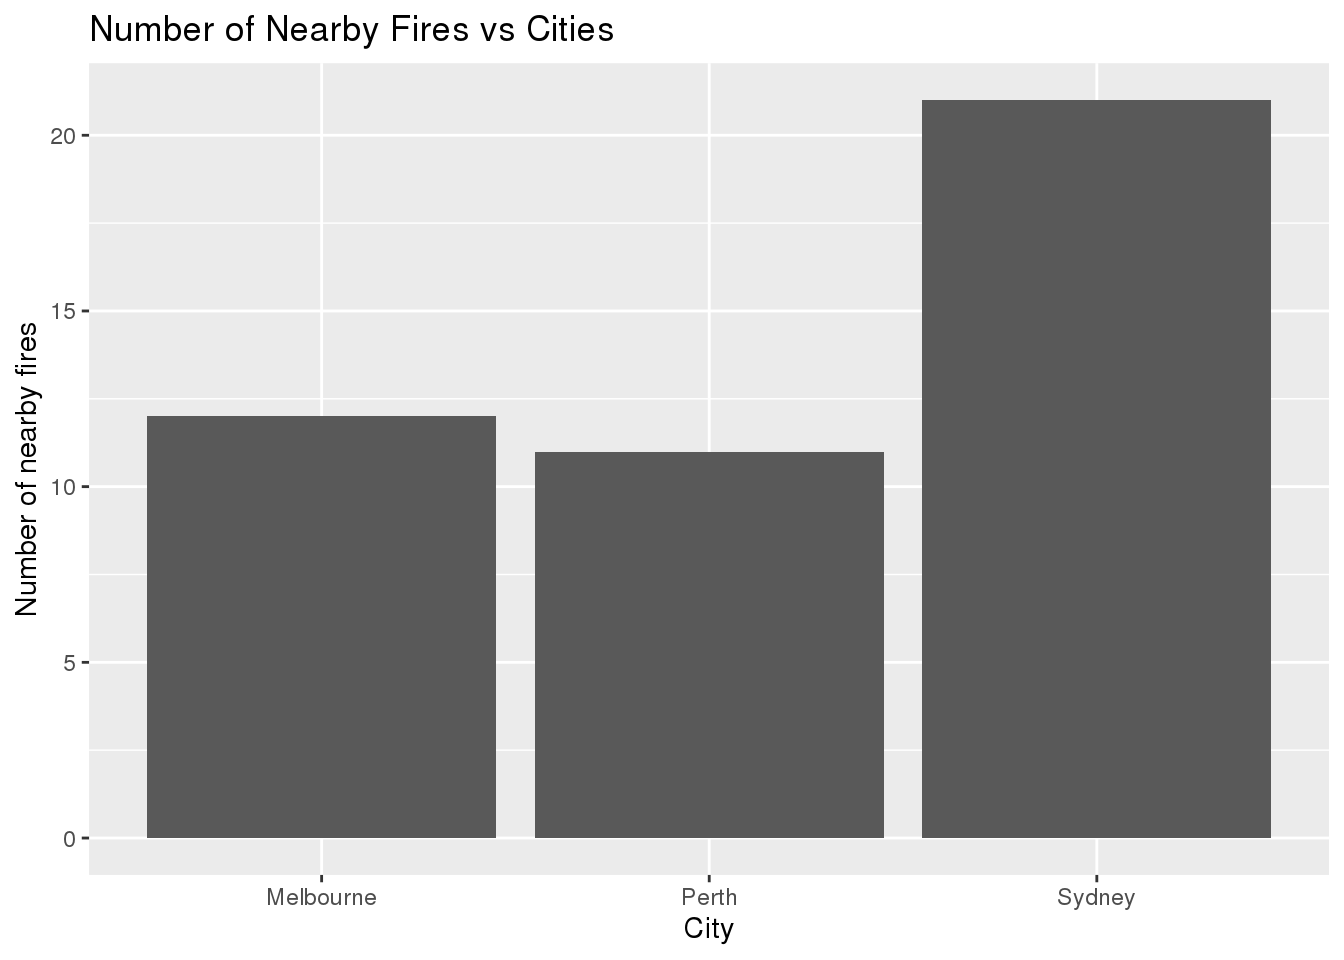
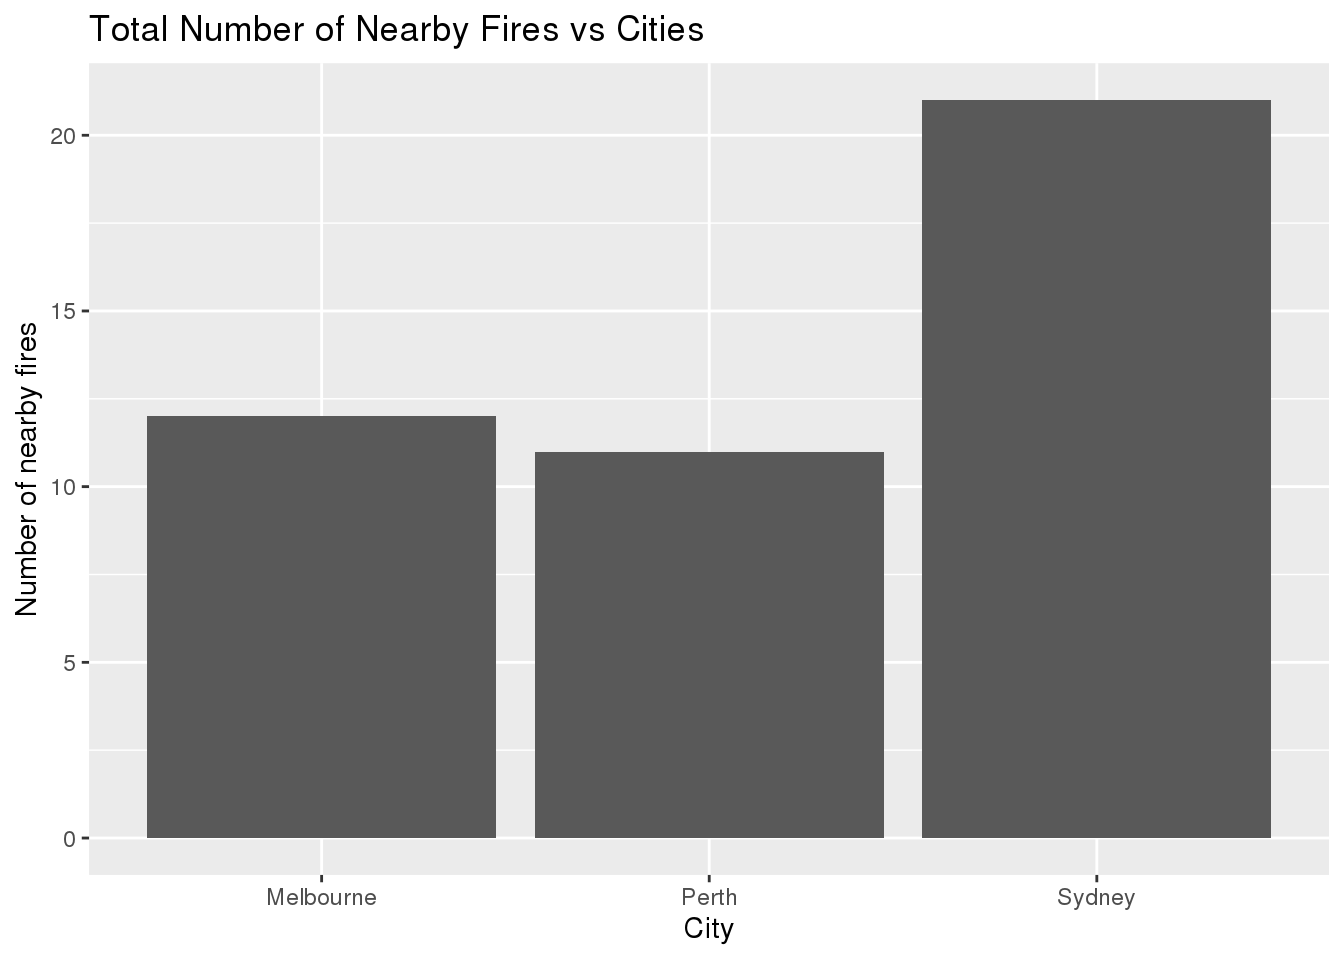
Blog Update

Changed region(s): [[0.0625, 0.0, 0.5312, 0.0625]]

diff --git a/content/post/2020-12-13-australia-fires/index.html b/content/post/2020-12-13-australia-fires/index.html
@@ -20,7 +20,7 @@ Fires &lt;- read.csv(here::here(&quot;content&quot;, &quot;post&quot;, &quot;202
     &quot;MODIS_C6_Australia_and_New_Zealand_7d.csv&quot;))</code></pre>
 <div id="question-1" class="section level1">
 <h1>Question 1:</h1>
-<p>How many of these fires happened near the cities? I will examine this by counting the number of instances of fires with longitude and latitude equal to the city coordinates rounded to 0 decimal places.</p>
+<p>How many of these fires happened near the cities, and have the number of fires changed in these cities changed over time? I will examine this by counting the number of instances of fires with longitude and latitude equal to the city coordinates rounded to 0 decimal places.</p>
 <pre class="r"><code>CityCoord &lt;- Rainfall %&gt;% 
 select(city_name, lat, long) %&gt;% 
 rename(longitude = long, latitude = lat) %&gt;% 
@@ -40,13 +40,28 @@ ggplot(aes(city_name, n)) +
 geom_bar(stat = &quot;identity&quot;) + 
 ylab(&quot;Number of nearby fires&quot;) + 
 xlab(&quot;City&quot;) + 
-ggtitle(&quot;Number of Nearby Fires vs Cities&quot;)</code></pre>
+ggtitle(&quot;Total Number of Nearby Fires vs Cities&quot;)</code></pre>
 <p><img src="index_files/figure-html/unnamed-chunk-3-1.png" width="672" /></p>
-<p>There were fires only near three out of the six cities recorded, and it seems Sydney has by far the greatest number of nearby fires, having almost double the number of Perth and Melbourne.</p>
+<pre class="r"><code>Fires %&gt;% 
+mutate(longitude = round(longitude, digits = 0), latitude = round(latitude, digits = 0)) %&gt;% 
+    
+left_join(CityCoord, by = c(&quot;longitude&quot;, &quot;latitude&quot;)) %&gt;% 
+group_by(acq_date) %&gt;% 
+na.omit(city_name) %&gt;% 
+count(city_name) %&gt;% 
+ggplot(aes(acq_date, n)) + 
+geom_bar(stat = &quot;identity&quot;) + 
+ylab(&quot;Number of nearby fires&quot;) + 
+xlab(&quot;City&quot;) + 
+ggtitle(&quot;Number of Nearby Fires vs Cities over time&quot;) + 
+facet_wrap(~city_name) + 
+theme(axis.text.x = element_text(angle = -75, hjust = -0.1))</code></pre>
+<p><img src="index_files/figure-html/unnamed-chunk-3-2.png" width="672" /></p>
+<p>There were fires only near three out of the six cities recorded, and it seems Sydney has by far the greatest number of nearby fires, having almost double the number of Perth and Melbourne. Perth, however, is the city that has experienced the greatest number of fires in a single day with 7 fires, on the day where Melbourne only had one nearby fire and Sydney had zero.</p>
 </div>
 <div id="question-2" class="section level1">
 <h1>Question 2:</h1>
-<p>Where have fires happened the most? To determine this, I will round the longitudes and latitudes of all fires to one decimal place and count the 20 areas with the highest number of fires. I will then map their coordinates along with their position relative to the cities listed in the Rainfall data.</p>
+<p>Where have fires happened the most? To determine this, I will round the longitudes and latitudes of all fires to one decimal place and count the 20 areas with the highest number of fires. I will then map their coordinates along with their position relative to the cities (shown as black squares) listed in the CityCoord data created in question 1.</p>
 <pre class="r"><code>FireMap &lt;- Fires %&gt;% 
 mutate(longitude = round(longitude, digits = 1), latitude = round(latitude, digits = 1)) %&gt;% 
     
@@ -55,7 +70,7 @@ summarize(total = n()) %&gt;%
 ungroup() %&gt;% 
 slice_max(total, n = 20) %&gt;% 
 rename(TotalFires = &quot;total&quot;)</code></pre>
-<p>In order to count the number of fire detections close to each other to determine concentration I rounded each of the fires’ longitudes and latitudes to one decimal point, and for that particular pair of longitude and latitude one fire case is added. After that, the 20 pairs of longitude and latitude with the highest number of fires are recorded in FireMap.</p>
+<p>In order to count the number of fire detections close to each other to determine concentration I rounded each of the fires’ longitudes and latitudes from three to one decimal point, and for that particular pair of longitude and latitude one fire case is added. After that, the 20 pairs of longitude and latitude with the highest number of fires are recorded in FireMap.</p>
 <pre class="r"><code>ggplot() + 
 borders(&quot;world&quot;) + 
 coord_quickmap(xlim = 113:155, ylim = -38:-10) + 
@@ -88,7 +103,7 @@ rename(`Total Fires In Area` = &quot;total&quot;)</code></pre>
 ##  9      150.    -32.6                   169
 ## 10      124.    -32.4                   163
 ## # … with 11 more rows</code></pre>
-<p>It seems the areas with the highest number of fires are all near the eastern coast of Australia. It should be taken into account, however, that total number of fires in an area does not necessarily indicate how damaged the area was by fire, as it doesn’t take into account the intensity of the fires. As such, one area can be more damaged by fires than another even with a lower total number of fires as long as the intensity of each of its fires is large enough.</p>
+<p>It seems the areas with the highest number of fires are all near the Southeastern coast of Australia. It should be taken into account, however, that total number of fires in an area does not necessarily indicate how damaged the area was by fire, as it doesn’t take into account the intensity of the fires. As such, one area can be more damaged by fires than another even with a lower total number of fires as long as the intensity of each of its fires is large enough. Since the 21 areas with the largest concentrations of fire detections are also generally near where there are cities, human activity can be one of the causes behind the large number of fires in that area.</p>
 </div>
 <div id="question-3" class="section level1">
 <h1>Question 3:</h1>
@@ -130,7 +145,7 @@ ggtitle(&quot;Number of Fires over time (100% Confidence)&quot;) +
 facet_wrap(~daynight) + 
 theme(axis.text.x = element_text(angle = -45, hjust = -0.1))</code></pre>
 <p><img src="index_files/figure-html/unnamed-chunk-6-3.png" width="672" /></p>
-<p>The amount of fires is mostly consistent with a spike on day two and day seven for nighttime and on the fifth and seventh day for daytime, but there’s a very sharp drop in the number of fires for both daytime and nighttime on the eighth day. In addition, although different confidence levels change the total number of fires, the overall trend is mostly the same for the three levels chosen.</p>
+<p>It seems amount of fires is mostly consistent with a spike on day two and day seven for nighttime and on the fifth and seventh day for daytime, but there’s a very sharp drop in the number of fires for both daytime and nighttime on the eighth day. In addition, although different confidence levels change the total number of fires, the overall trend is mostly the same for the three levels chosen.</p>
 </div>
 <div id="conclusion" class="section level1">
 <h1>Conclusion:</h1>
